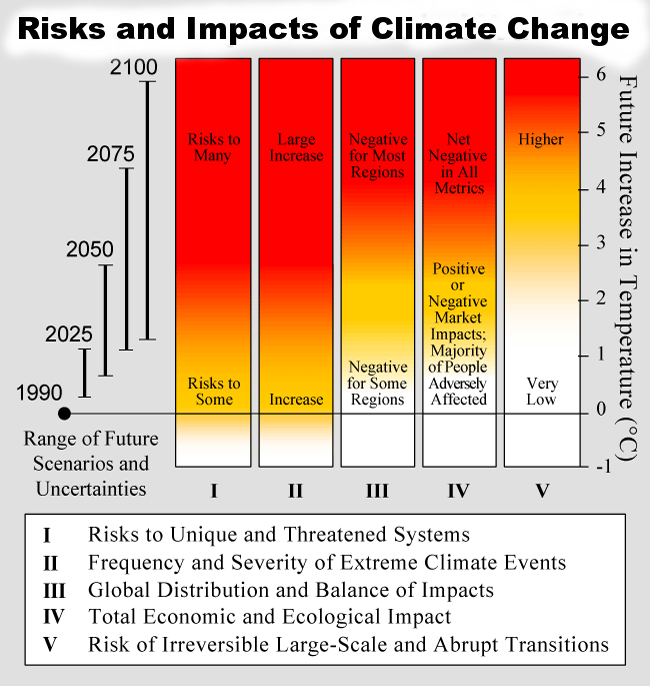
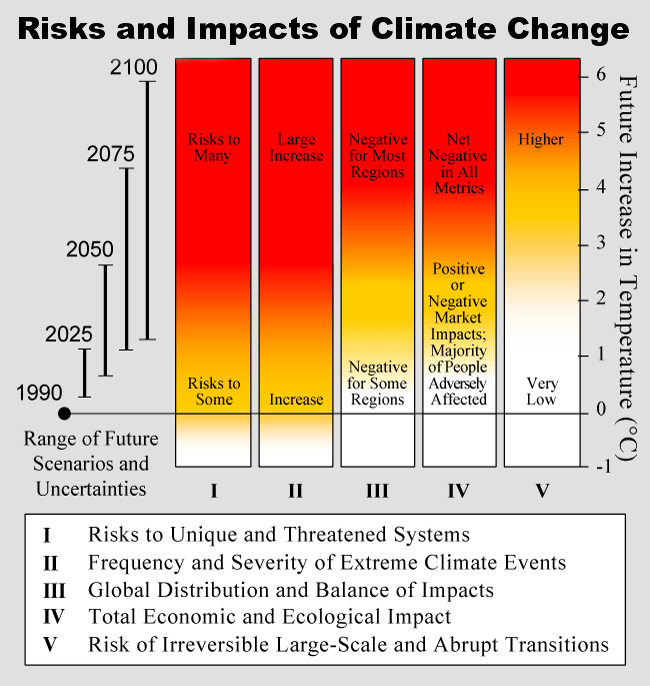
Added UI images, and recoloured impact image

Changed region(s): [[0.0, 0.0, 1.0, 0.0918]]

diff --git a/report/sections/Implementation.tex b/report/sections/Implementation.tex
@@ -507,7 +507,11 @@ Once data has been imported from the \textsc{csv} file it may be necessary to ma
 
 Most agents in the simulation are countries and in order for the simulation to be as realistic as possible these are modelled on real countries with parameters describing land mass etc. stored in the database. It is useful to edit some of these parameters such as the percentage of land mass available for green development to investigate what happens in a simulation given agents with different parameters. In the \textsc{ui} there is a page specifically for editing countries which displays a clickable map of the world with a dropdown menu for country selection. This way all countries within a single simulation can be displayed as a bunch of editable parameters.
 
-% UI IMAGE
+\begin{figure}[h!]
+	\centering
+	\includegraphics[width=0.6\textwidth]{img/ui1.png}
+	\caption{}
+\end{figure}
 
 \subsubsection{Simulation Data}
 
@@ -515,13 +519,21 @@ Once imported, simulation data resides in a collection in the database. The \tex
 
 \paragraph{Simulation Overview Page}
 
-% UI IMAGE
+\begin{figure}[h!]
+	\centering
+	\includegraphics[width=0.6\textwidth]{img/ui2.png}
+	\caption{}
+\end{figure}
 
 The simulation overview page displays a world map using colour to indicate the values of a selected parameter for each country (default is arable land area percentage). There is a drop down menu (called Map View) which allows changing of the parameters displayed on the map. Below this is a table displaying a detailed output of all the simulation data from the database. This page also links to the \textsc{csv} export feature, copy feature, edit simulation page and a dropdown is present to allow editing of all the countries within the simulation.
 
 \paragraph{Simulation Edit Page}
 
-% UI IMAGE
+\begin{figure}[h!]
+	\centering
+	\includegraphics[width=0.6\textwidth]{img/ui3.png}
+	\caption{}
+\end{figure}
  
 The simulation edit page is a low level editor for the simulation. Functionality is provided to rename the simulation, the simulation authors and all other simulation attributes which it makes sense to edit. It also provides a link to the country editor page (the simulation \textsc{id} is passed in the \textsc{url} to ensure editing takes place on the countries of the correct simulation).
 
